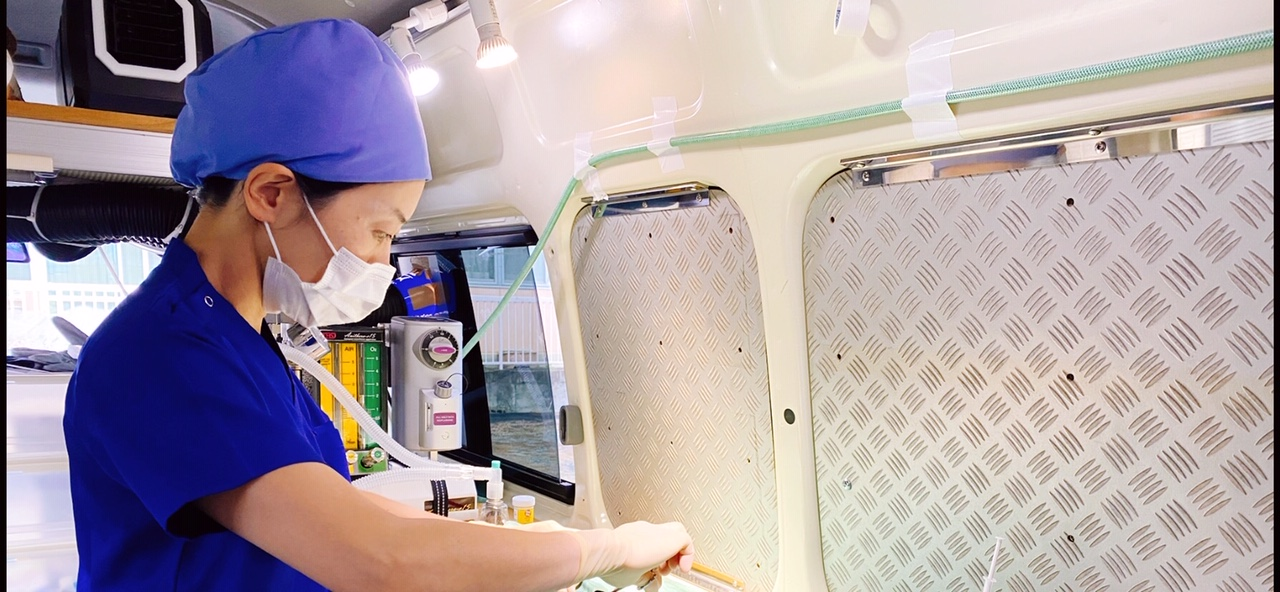
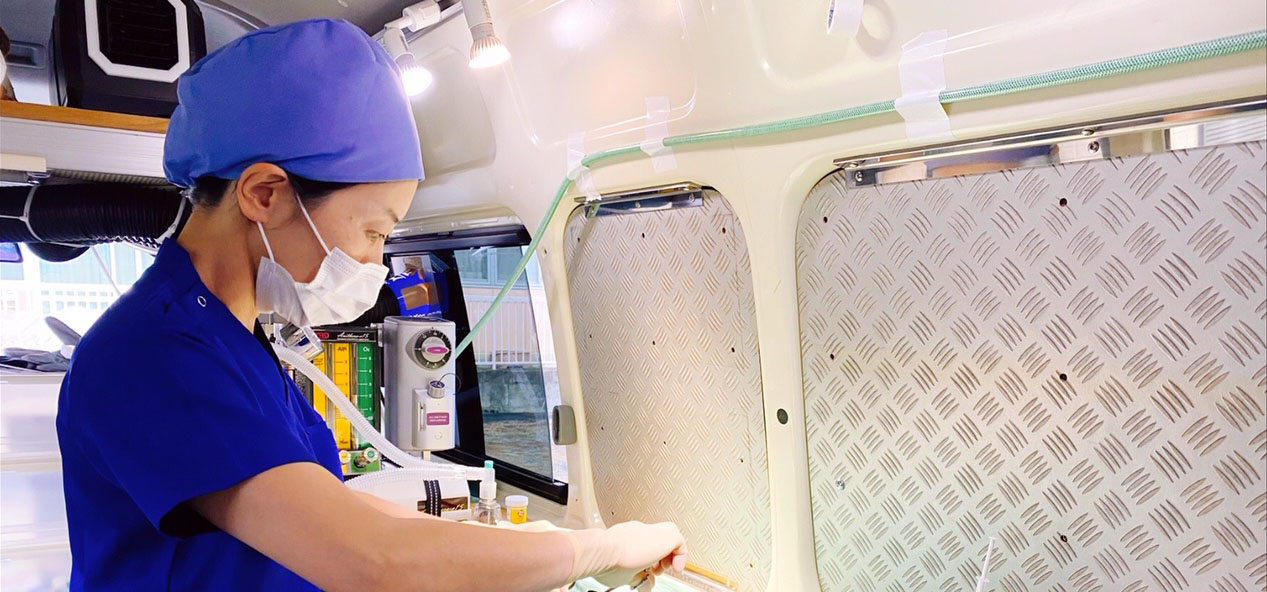
トップ画像の差し替え他
画像の差し替え
・トップ画像
・ネコサファリとは？画像
・ロジねことは？画像
STORY背景画像の軽微なトリミング
小見出しのフォントサイズの変更

diff --git a/index.html b/index.html
@@ -28,7 +28,7 @@
 </nav>
 
 <header id="header">
-	<img src="images/mainCatImg_v2.jpg" alt="">
+	<img src="images/mainCatImg_v3.jpg" alt="">
 	<div id="slogan">
 		<h1>Rojineco&nbsp;</h1>
 		<h2>ロジねこ〜猫の過剰繁殖問題をみんなで考える〜</h2>
@@ -104,7 +104,7 @@
 <!-- MESSAGE -->
 <section id="sec02">
 	<div class="wrap">
-		<p class="bg"><img src="images/sec02_Cat_01.jpg" alt=""></p>
+		<p class="bg"><img src="images/sec02_CatSafari_01.JPG" alt=""></p>
 		<div class="txt">
 			<div class="vMid">
 				<h2>「ネコサファリ」とは？</h2>
@@ -117,7 +117,7 @@
 		</div>
 	</div>
 	<div id="sec02_02" class="wrap">
-		<p class="bg"><img src="images/sec02_Cat_02.png" alt=""></p>
+		<p class="bg"><img src="images/sec02_Cat_05.jpg" alt=""></p>
 		<div class="txt">
 			<div class="vMid">
 				<h2>「ロジねこ」とは？</h2>

diff --git a/css/style.css b/css/style.css
@@ -101,7 +101,7 @@ img{
 section{clear:both;}
 
 section h2{
-	font-size: 30px;
+	font-size: 28px;
 	font-weight:normal;
 	text-align: center;
 }
